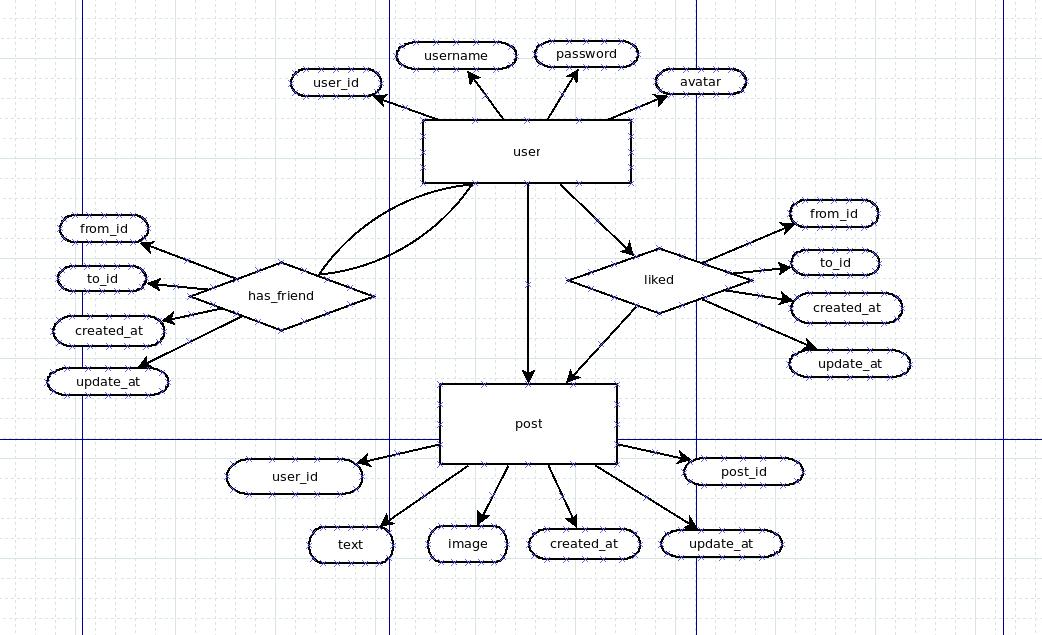
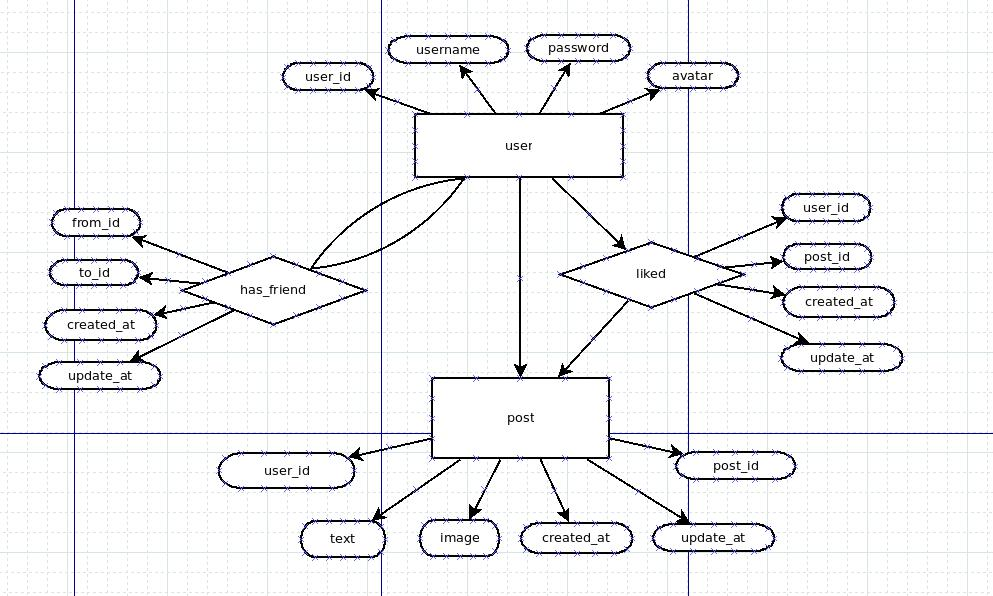
add liked access control

diff --git a/routes/like_middleware.js b/routes/like_middleware.js
@@ -1,0 +1,66 @@
+function parseUrl(url){
+  var result = [];
+  var query = url.split("?")[1];
+  var queryArr = query.split("&");
+  queryArr.forEach(function(item){
+    var obj = {};
+    var value = item.split("=")[1];
+    var key = item.split("=")[0];
+    obj[key] = value;
+    result.push(obj);
+  });
+  return result;
+}
+  
+function like_middleware(router, personal_info, prepare) {
+  router.post('/liked', async (ctx, next) => {
+    var data = ctx.request.body;
+    if(data != null) {
+      if(personal_info.user_id == data.user_id) {
+        var search_post = await prepare.post.findAll({
+          where: {
+            post_id: data.post_id
+          }
+        });
+        if(search_post.length != 1) {
+          ctx.response.status = 400;
+        } else {
+          var check_friendship = await prepare.has_friend.findAll({
+            where: {
+              from_id: personal_info.user_id,
+              to_id: search_post[0].user_id
+            }
+          });
+          if(check_friendship.length != 1) { // 不是好友不能点赞
+            ctx.response.status = 403;
+          } else {
+            await next();
+          }
+        }
+      } else {
+        ctx.response.status = 403;
+      }
+    } else {
+      ctx.response.status = 400;
+    }
+  });
+  router.put(/\/liked/, async (ctx, next) => {
+    ctx.response.status = 405;
+  });
+  router.delete(/\/liked/, async (ctx, next) => {
+    if(ctx.url == '/liked')
+      ctx.response.status = 403;
+    else {
+      var data = parseUrl(ctx.url);
+      if(data == null || data[0].user_id == null || data.length != 2 || data[1].post_id == null) {  // 只能取消自己的点赞
+        ctx.response.status = 400;
+      } else if(data[0].user_id != personal_info.user_id) {
+        ctx.response.status = 403;
+      } else {
+        await next();
+      }
+    }
+  });  
+}
+
+module.exports = like_middleware;

diff --git a/router.js b/router.js
@@ -11,6 +11,8 @@ const cookie_auth = require('./routes/cookie_auth');
 const user_middleware = require('./routes/user_middleware');
 const has_friend_middleware = require('./routes/has_friend_middleware');
 const post_middleware = require('./routes/post_middleware');
+const like_middleware = require('./routes/like_middleware');
+
 var personal_info = new Object(); // 记录当前用户信息
 
 function setRoute(app) {
@@ -19,6 +21,7 @@ function setRoute(app) {
   user_middleware(router, personal_info);        // 处理返回的user信息
   has_friend_middleware(router, personal_info);
   post_middleware(router, personal_info, prepare);
+  like_middleware(router, personal_info, prepare);
   app.use(router.routes())
   app.use(restql.routes())
 }

diff --git a/lib/prepare.js b/lib/prepare.js
@@ -6,10 +6,13 @@ const sequelize = new Sequelize(config.db);
 const defineUser = require('../modules/user');
 const definePost = require('../modules/post');
 const defineFriendShip = require('../modules/has_friend');
+const defineLike = require('../modules/liked');
 
 var user = defineUser(sequelize);
 var post = definePost(sequelize);
 var has_friend = defineFriendShip(sequelize);
+var liked = defineLike(sequelize);
+
 user.belongsToMany(user, {as: 'from', through: 'has_friend', foreignKey: 'from_id'});
 user.belongsToMany(user, {as: 'to', through: 'has_friend', foreignKey: 'to_id'});
 post.belongsToMany(user, {as: 'like', through: 'liked', foreignKey: 'post_id'});

diff --git a/modules/liked.js b/modules/liked.js
@@ -1,0 +1,18 @@
+const Sequelize = require('sequelize');
+
+function defineLike(sequelize) {
+  return sequelize.define('liked', {
+    user_id: {
+      type: Sequelize.INTEGER, 
+    },
+    post_id: {
+      type: Sequelize.INTEGER,
+    }
+  },
+  {
+    underscored: true,
+    tableName: 'liked',
+  })   
+}
+
+module.exports = defineLike;

diff --git a/README.md b/README.md
@@ -36,7 +36,8 @@ http://119.29.204.118:3000
 |post|POST|/post|{"user_id":18,<br>"text":"first post",<br>"image":"1221212121212"}|发动态|
 |post|GET|/post?user_id=3||查看已关注的用户动态|
 |post|DELETE|/post?post_id=1||删除自己的动态|
-|liked|POST|/liked|{"user_id":18,<br>"post_id":3}|点赞|
+|liked|POST|/liked|{"user_id":18,<br>"post_id":3}|点赞(只能赞自己关注的用户))|
+|liked|DELETE|/liked?user_id=1&post_id=2||取消点赞|
 
 ## table description
 
